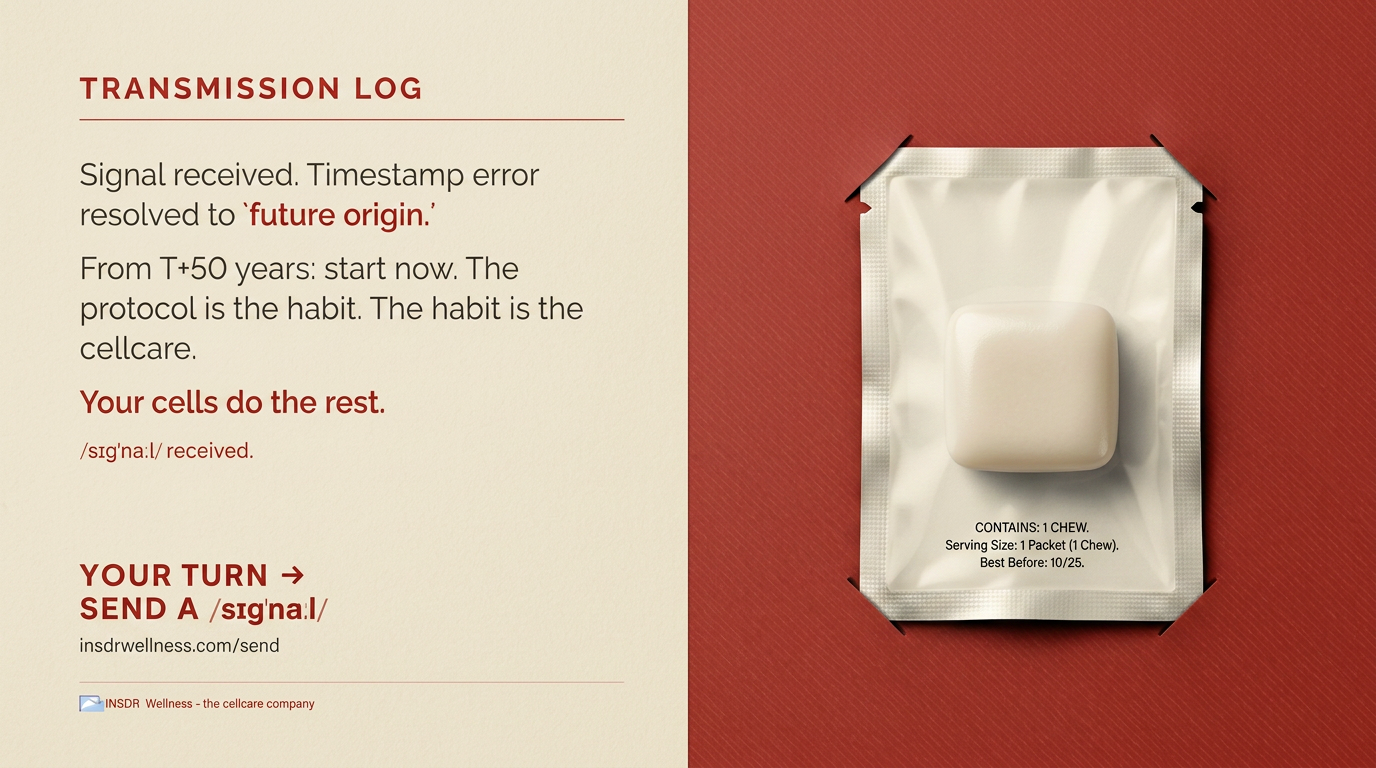
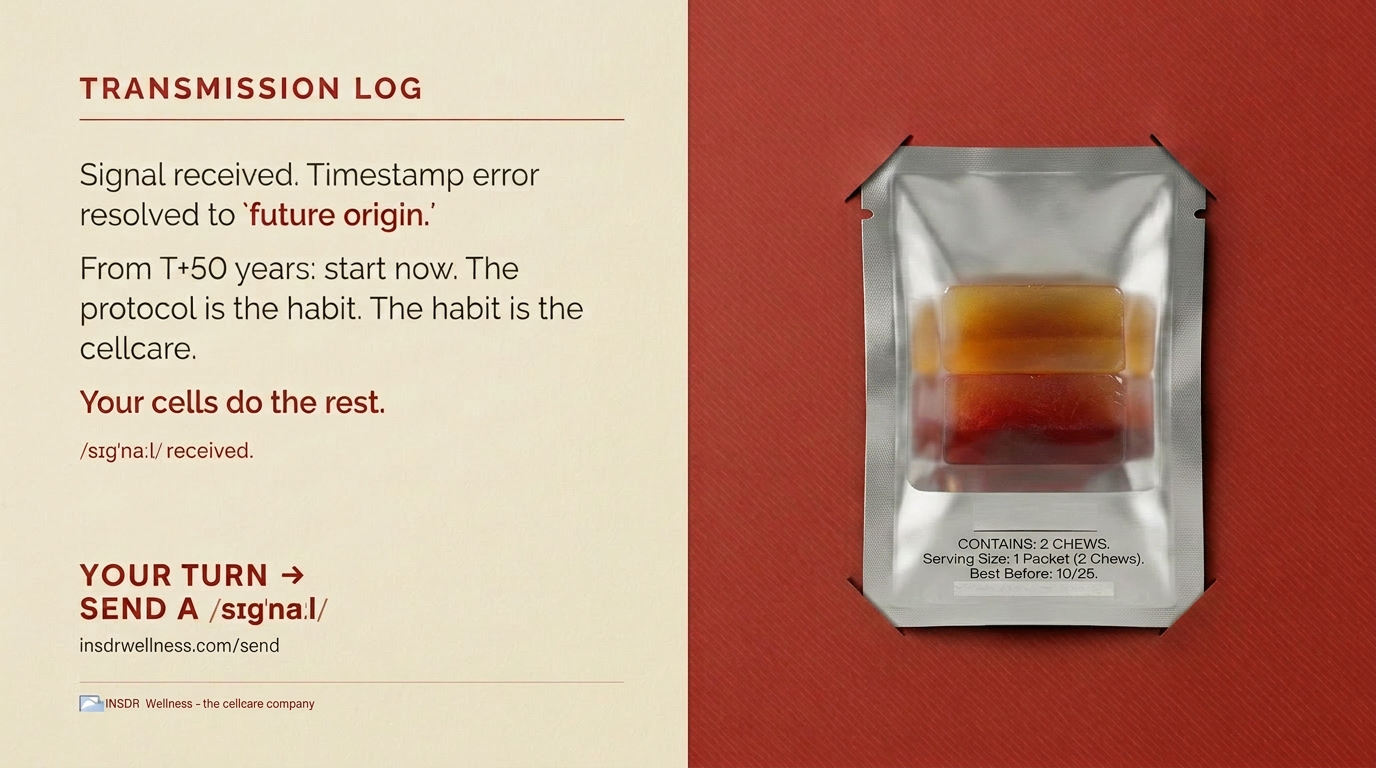
Manifesto IX — sas_card_inside swapped to N°002 flagship packet
Replaces the N°001 single-chew packet on the right red panel with the
N°002 flagship packet (clear AlOx film showing amber substrate + ruby
keystone chews stacked). Same 1376×768 dimensions; drop-in replacement.

Alt text and dim caption updated to reflect N°002 (no longer says
"N°001 packet"). The §IX SaS demo now consistently shows the dual-chew
flagship as the on-card artifact — matching the rest of the manifesto's
N°002-as-flagship framing.

diff --git a/brand-manifesto.html b/brand-manifesto.html
@@ -1652,10 +1652,10 @@ body.locked #cursor-quote { opacity: 0 !important; }
 
     <!-- Stage 3: Card inside spread — what they read + the packet -->
     <div class="sas-stage">
-      <img src="sas_card_inside.png" alt="Send a Signal card inside spread — cream left panel with TRANSMISSION LOG body and YOUR TURN SEND A /sɪɡˈnɑːl/ CTA, red right panel with N°001 packet mounted on 4 corner slits" class="sas-photo card-inside-photo">
+      <img src="sas_card_inside.png" alt="Send a Signal card inside spread — cream left panel with TRANSMISSION LOG body and YOUR TURN SEND A /sɪɡˈnɑːl/ CTA, red right panel with N°002 flagship packet (clear AlOx film, amber substrate + ruby keystone chews stacked) mounted on 4 corner slits" class="sas-photo card-inside-photo">
       <div class="sas-stage-name">What they read when they open it</div>
   <div lang="zh-TW" class="sas-stage-name zh-mandarin">打開時讀到的內容</div>
-      <div class="sas-stage-dims">Inside spread &middot; 210 &times; 148 mm &middot; N&deg;001 packet mounted on 4 corner slits</div>
+      <div class="sas-stage-dims">Inside spread &middot; 210 &times; 148 mm &middot; N&deg;002 flagship packet mounted on 4 corner slits</div>
     </div>
 
     <!-- Stage 4: A7 insert — the category moment -->
